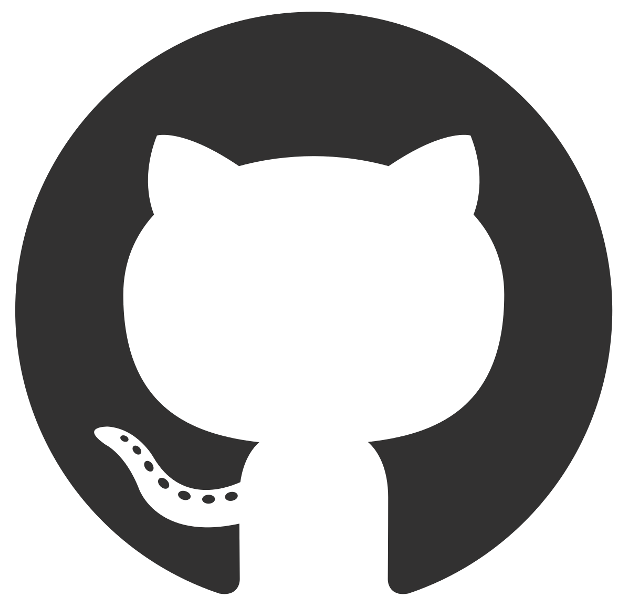
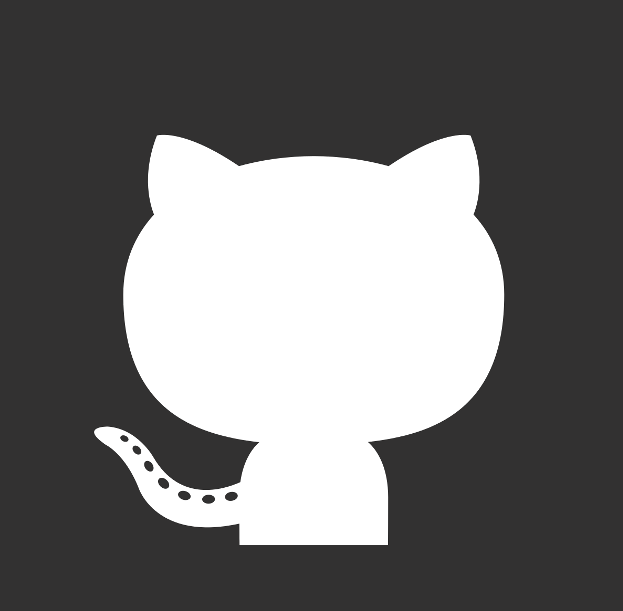
edited welcome page styling

Changed region(s): [[0.0, 0.0, 1.0, 1.0]]

diff --git a/welcome_page/index.css b/welcome_page/index.css
@@ -1,1 +1,1 @@
-@import url("https://fonts.googleapis.com/css?family=Montserrat:400,700");body{font-family:'Montserrat',sans-serif;background:#000}*,*::before,*::after{-webkit-box-sizing:border-box;box-sizing:border-box}.honeycomb{display:-webkit-box;display:-ms-flexbox;display:flex;-ms-flex-wrap:wrap;flex-wrap:wrap;list-style:none;-webkit-box-pack:center;-ms-flex-pack:center;justify-content:center;-webkit-box-align:center;-ms-flex-align:center;align-items:center;max-width:1200px;margin:0 auto;padding:0;-webkit-transform:translateY(34.375px);transform:translateY(34.375px)}.honeycomb-cell{-webkit-box-flex:0;-ms-flex:0 1 250px;flex:0 1 250px;max-width:250px;height:137.5px;margin:65.4761904762px 12.5px 25px;position:relative;padding:.5em;text-align:center;z-index:1}.honeycomb-cell__title{height:100%;display:-webkit-box;display:-ms-flexbox;display:flex;-webkit-box-orient:vertical;-webkit-box-direction:normal;-ms-flex-direction:column;flex-direction:column;-webkit-box-pack:center;-ms-flex-pack:center;justify-content:center;-webkit-hyphens:auto;-ms-hyphens:auto;hyphens:auto;word-break:break-word;text-transform:uppercase;color:#fff;font-weight:700;font-size:1.75em;-webkit-transition:opacity 350ms;transition:opacity 350ms}.honeycomb-cell__title>small{font-weight:300;margin-top:.25em}.honeycomb-cell__image{-o-object-fit:cover;object-fit:cover;-o-object-position:center;object-position:center}.honeycomb-cell::before,.honeycomb-cell::after{content:''}.honeycomb-cell::before,.honeycomb-cell::after,.honeycomb-cell__image{top:-50%;left:0;width:100%;height:200%;display:block;position:absolute;-webkit-clip-path:polygon(50% 0,100% 25%,100% 75%,50% 100%,0% 75%,0% 25%);clip-path:polygon(50% 0,100% 25%,100% 75%,50% 100%,0% 75%,0% 25%);z-index:-1}.honeycomb-cell::before{background:#fff;-webkit-transform:scale(1.055);transform:scale(1.055)}.honeycomb-cell::after{background:#3ea0eb;opacity:.5;-webkit-transition:opacity 350ms;transition:opacity 350ms}.honeycomb-cell:hover .honeycomb-cell__title{opacity:0}.honeycomb-cell:hover::before{background:#72f88e}.honeycomb-cell:hover::after{opacity:0}.honeycomb__placeholder{display:none;opacity:0;width:250px;margin:0 12.5px}@media(max-width:550px){.honeycomb-cell{margin:81.25px 25px}}@media(min-width:550px) and (max-width:825px){.honeycomb-cell:nth-child(3n){margin-right:calc(50% - 125px);margin-left:calc(50% - 125px)}.honeycomb__placeholder:nth-child(3n+5){display:block}}@media(min-width:825px) and (max-width:1100px){.honeycomb-cell:nth-child(5n+4){margin-left:calc(50% - 275px)}.honeycomb-cell:nth-child(5n+5){margin-right:calc(50% - 275px)}.honeycomb__placeholder:nth-child(5n),.honeycomb__placeholder:nth-child(5n+3){display:block}}@media(min-width:1100px){.honeycomb-cell:nth-child(7n+5){margin-left:calc(50% - 400px)}.honeycomb-cell:nth-child(7n+7),.honeycomb-cell:nth-child(7n+5):nth-last-child(2){margin-right:calc(50% - 400px)}.honeycomb__placeholder:nth-child(7n+7),.honeycomb__placeholder:nth-child(7n+9),.honeycomb__placeholder:nth-child(7n+11){display:block}}a.honeycomb-cell__title:link{text-decoration:none}
+@import url("https://fonts.googleapis.com/css?family=Montserrat:400,700");body{font-family:'Montserrat',sans-serif;background:#000}*,*::before,*::after{-webkit-box-sizing:border-box;box-sizing:border-box}.honeycomb{display:-webkit-box;display:-ms-flexbox;display:flex;-ms-flex-wrap:wrap;flex-wrap:wrap;list-style:none;-webkit-box-pack:center;-ms-flex-pack:center;justify-content:center;-webkit-box-align:center;-ms-flex-align:center;align-items:center;max-width:1200px;margin:0 auto;padding:0;-webkit-transform:translateY(34.375px);transform:translateY(34.375px)}.honeycomb-cell{-webkit-box-flex:0;-ms-flex:0 1 250px;flex:0 1 250px;max-width:250px;height:137.5px;margin:65.4761904762px 12.5px 25px;position:relative;padding:.5em;text-align:center;z-index:1}.honeycomb-cell__title{height:100%;display:-webkit-box;display:-ms-flexbox;display:flex;-webkit-box-orient:vertical;-webkit-box-direction:normal;-ms-flex-direction:column;flex-direction:column;-webkit-box-pack:center;-ms-flex-pack:center;justify-content:center;-webkit-hyphens:auto;-ms-hyphens:auto;hyphens:auto;word-break:break-word;text-transform:uppercase;color:#fff;font-weight:700;font-size:1.75em;-webkit-transition:opacity 350ms;transition:opacity 350ms}.honeycomb-cell__title>small{font-weight:300;margin-top:.25em}.honeycomb-cell__image{-o-object-fit:cover;object-fit:cover;-o-object-position:center;object-position:center}.honeycomb-cell::before,.honeycomb-cell::after{content:''}.honeycomb-cell::before,.honeycomb-cell::after,.honeycomb-cell__image{top:-50%;left:0;width:100%;height:200%;display:block;position:absolute;-webkit-clip-path:polygon(50% 0,100% 25%,100% 75%,50% 100%,0% 75%,0% 25%);clip-path:polygon(50% 0,100% 25%,100% 75%,50% 100%,0% 75%,0% 25%);z-index:-1}.honeycomb-cell::before{background:#000;-webkit-transform:scale(1.055);transform:scale(1.055)}.honeycomb-cell::after{background:#72f88e;opacity:1;-webkit-transition:opacity 350ms;transition:opacity 350ms}.honeycomb-cell:hover .honeycomb-cell__title{opacity:0}.honeycomb-cell:hover::before{background:#72f88e}.honeycomb-cell:hover::after{opacity:0}.honeycomb__placeholder{display:none;opacity:0;width:250px;margin:0 12.5px}@media(max-width:550px){.honeycomb-cell{margin:81.25px 25px}}@media(min-width:550px) and (max-width:825px){.honeycomb-cell:nth-child(3n){margin-right:calc(50% - 125px);margin-left:calc(50% - 125px)}.honeycomb__placeholder:nth-child(3n+5){display:block}}@media(min-width:825px) and (max-width:1100px){.honeycomb-cell:nth-child(5n+4){margin-left:calc(50% - 275px)}.honeycomb-cell:nth-child(5n+5){margin-right:calc(50% - 275px)}.honeycomb__placeholder:nth-child(5n),.honeycomb__placeholder:nth-child(5n+3){display:block}}@media(min-width:1100px){.honeycomb-cell:nth-child(7n+5){margin-left:calc(50% - 400px)}.honeycomb-cell:nth-child(7n+7),.honeycomb-cell:nth-child(7n+5):nth-last-child(2){margin-right:calc(50% - 400px)}.honeycomb__placeholder:nth-child(7n+7),.honeycomb__placeholder:nth-child(7n+9),.honeycomb__placeholder:nth-child(7n+11){display:block}}a.honeycomb-cell__title:link{text-decoration:none}
